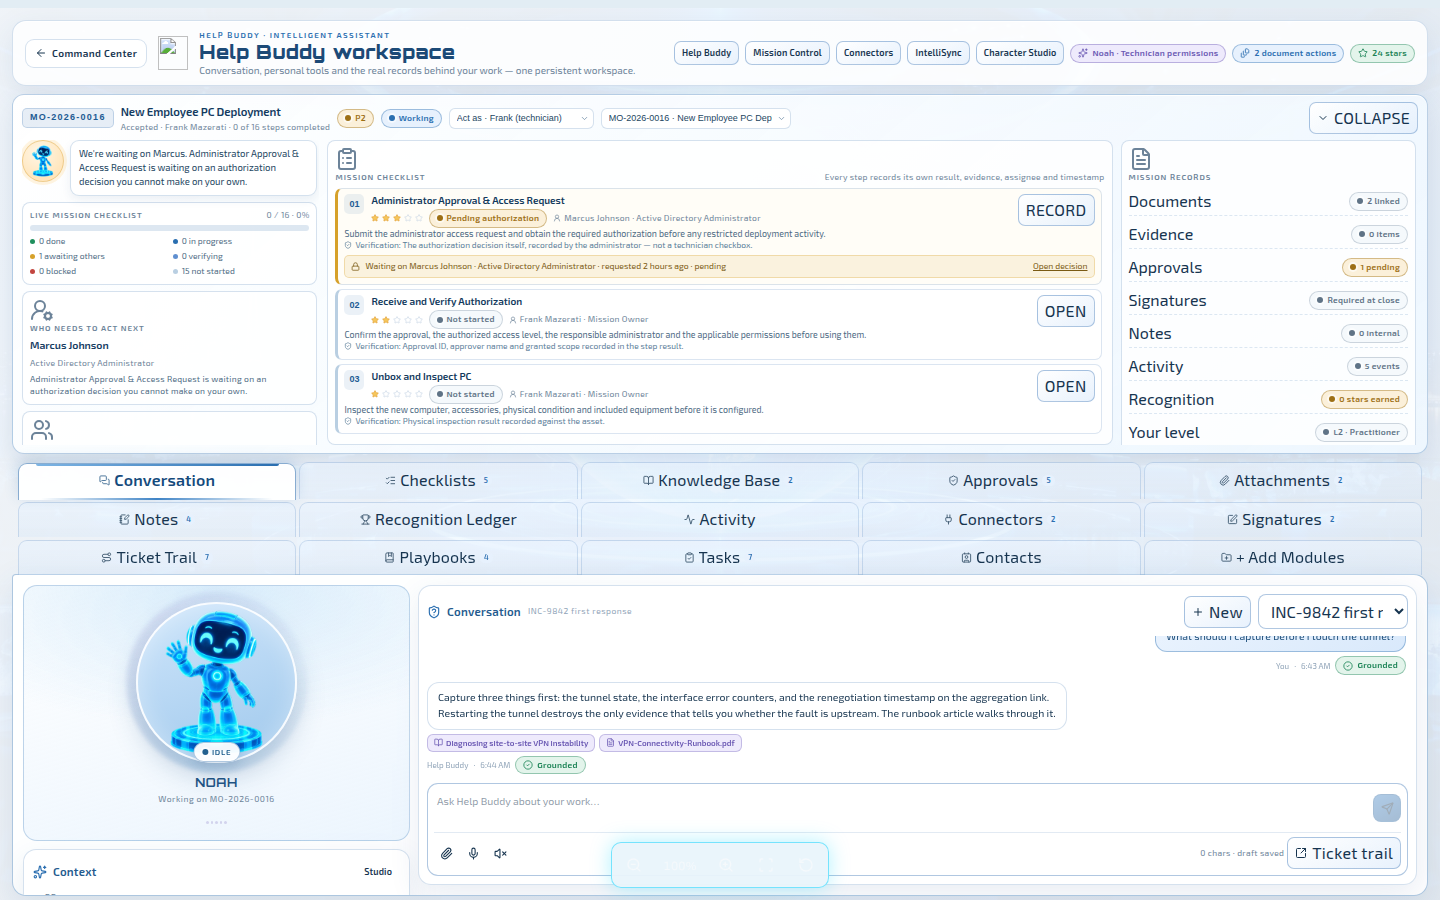
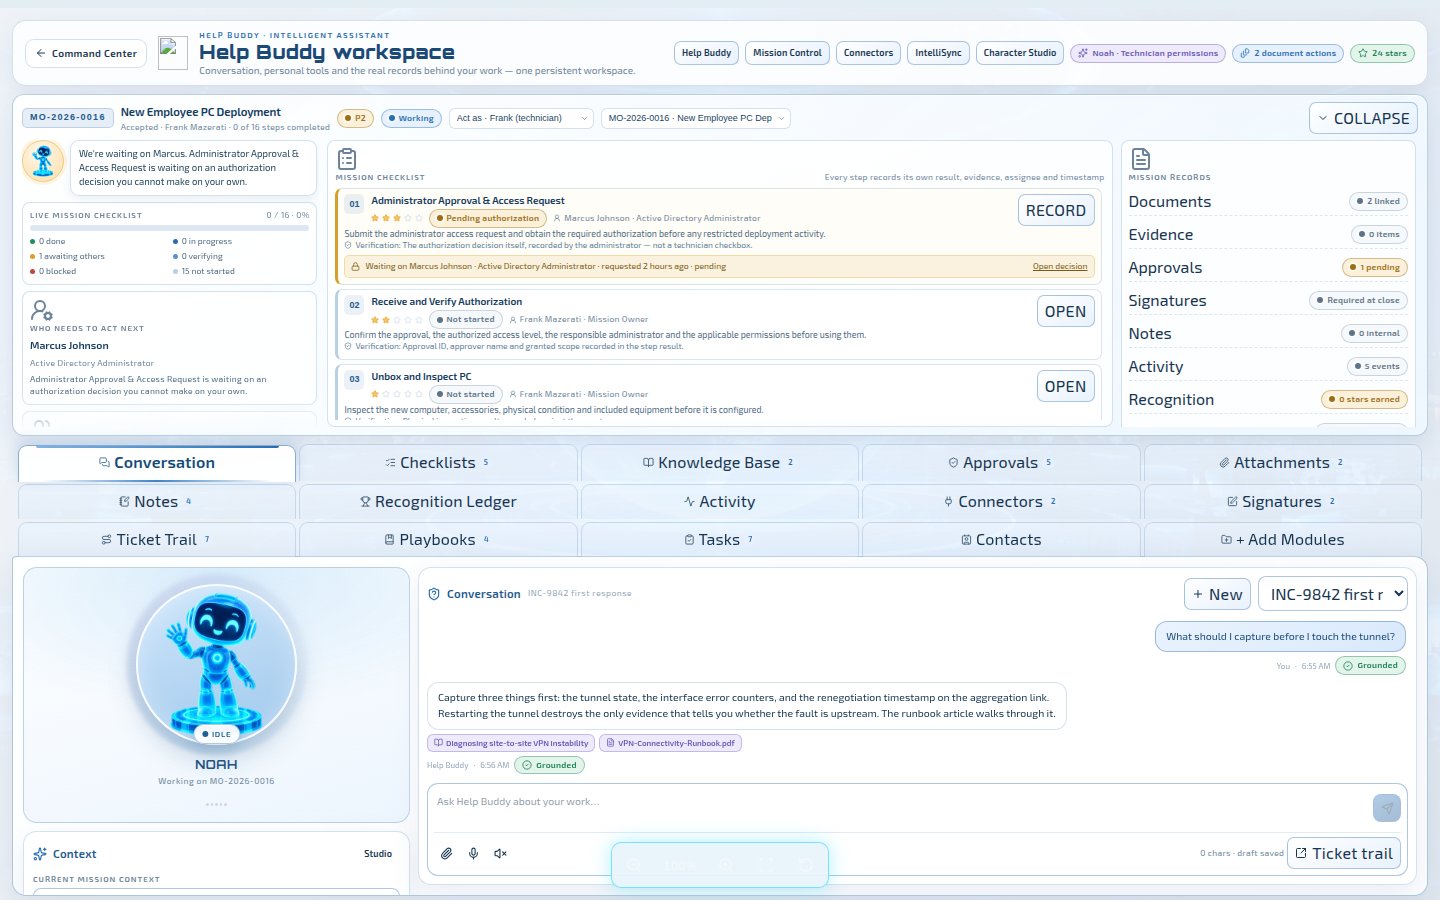
Fix tablet layout for the live mission window and conversation
Stack the workspace header below 1120px so the title, subtitle and module links
stop competing for one row, keep the chat's character rail beside the log on
tablet widths instead of stacking it over the composer, scale the character on
short viewports, and collapse the mission window by default below 840px with a
one-line summary that names the next actor.

diff --git a/src/styles/workspace.css b/src/styles/workspace.css
@@ -2730,12 +2730,52 @@
 
 @media (max-height: 940px) {
   .mx-mission-window {
-    max-height: 34dvh;
+    max-height: 38dvh;
   }
 }
 
 @media (max-height: 800px) {
   .mx-mission-window {
-    max-height: 30dvh;
+    max-height: 32dvh;
+  }
+}
+
+@media (max-width: 1120px) {
+  .mx-topbar {
+    grid-template-columns: minmax(0, 1fr);
+    align-items: start;
+  }
+  .mx-topbar-actions {
+    justify-content: flex-start;
+  }
+  .mx-heading {
+    min-width: 0;
+  }
+  .mx-title {
+    white-space: normal;
+  }
+  .mx-sub {
+    max-width: 62ch;
+  }
+}
+
+@media (max-height: 840px) {
+  .mx-character {
+    padding: 6px 8px;
+    gap: 4px;
+  }
+  .mx-character-stage {
+    width: clamp(84px, 10vw, 112px);
+  }
+  .mx-character-name {
+    font-size: 10px;
+  }
+}
+
+/* At tablet widths the chat keeps its character rail instead of stacking, which
+   would push the composer out of a 768px-tall viewport. */
+@media (max-width: 1180px) and (min-width: 901px) {
+  .mx-split-row--chat {
+    grid-template-columns: minmax(150px, 0.52fr) minmax(0, 1.7fr);
   }
 }

diff --git a/src/routes/help-buddy.tsx b/src/routes/help-buddy.tsx
@@ -67,7 +67,9 @@ export const Route = createFileRoute("/help-buddy")({
 function HelpBuddyPage() {
   const state = useCommandState();
   const [active, setActive] = useState("conversation");
-  const [missionCollapsed, setMissionCollapsed] = useState(false);
+  const [missionCollapsed, setMissionCollapsed] = useState(
+    () => typeof window !== "undefined" && window.innerHeight < 840,
+  );
   const [missionId, setMissionId] = useState<string | null>(null);
   const userId = state.activeUserId;
   const user = state.users.find((item) => item.id === userId);
